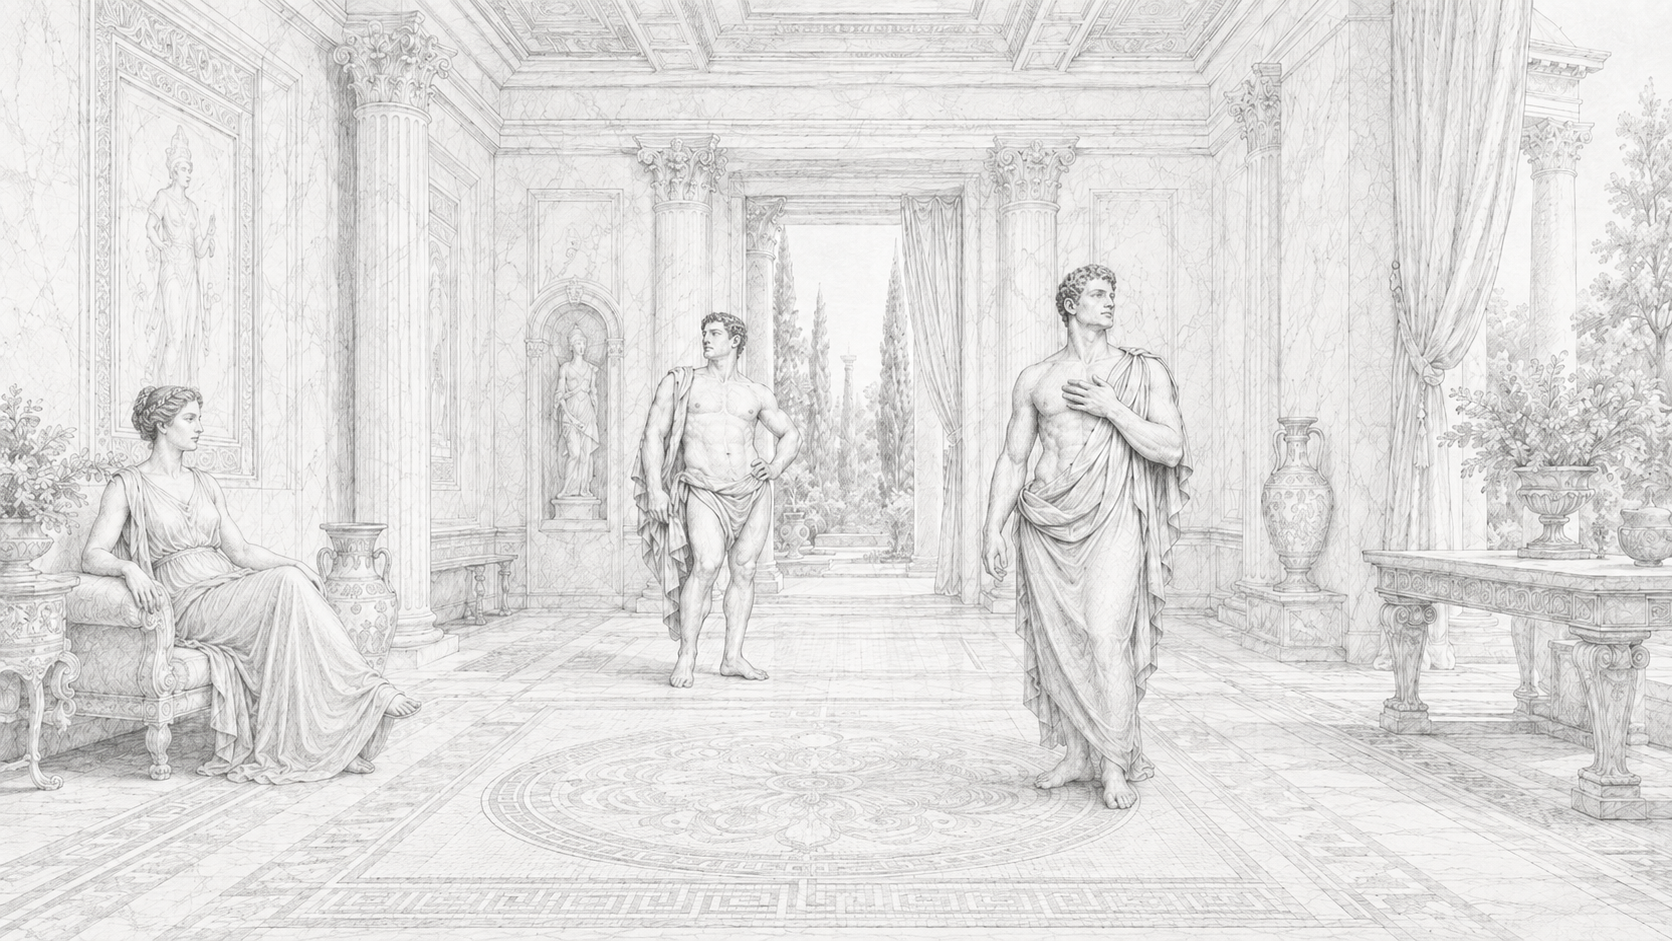
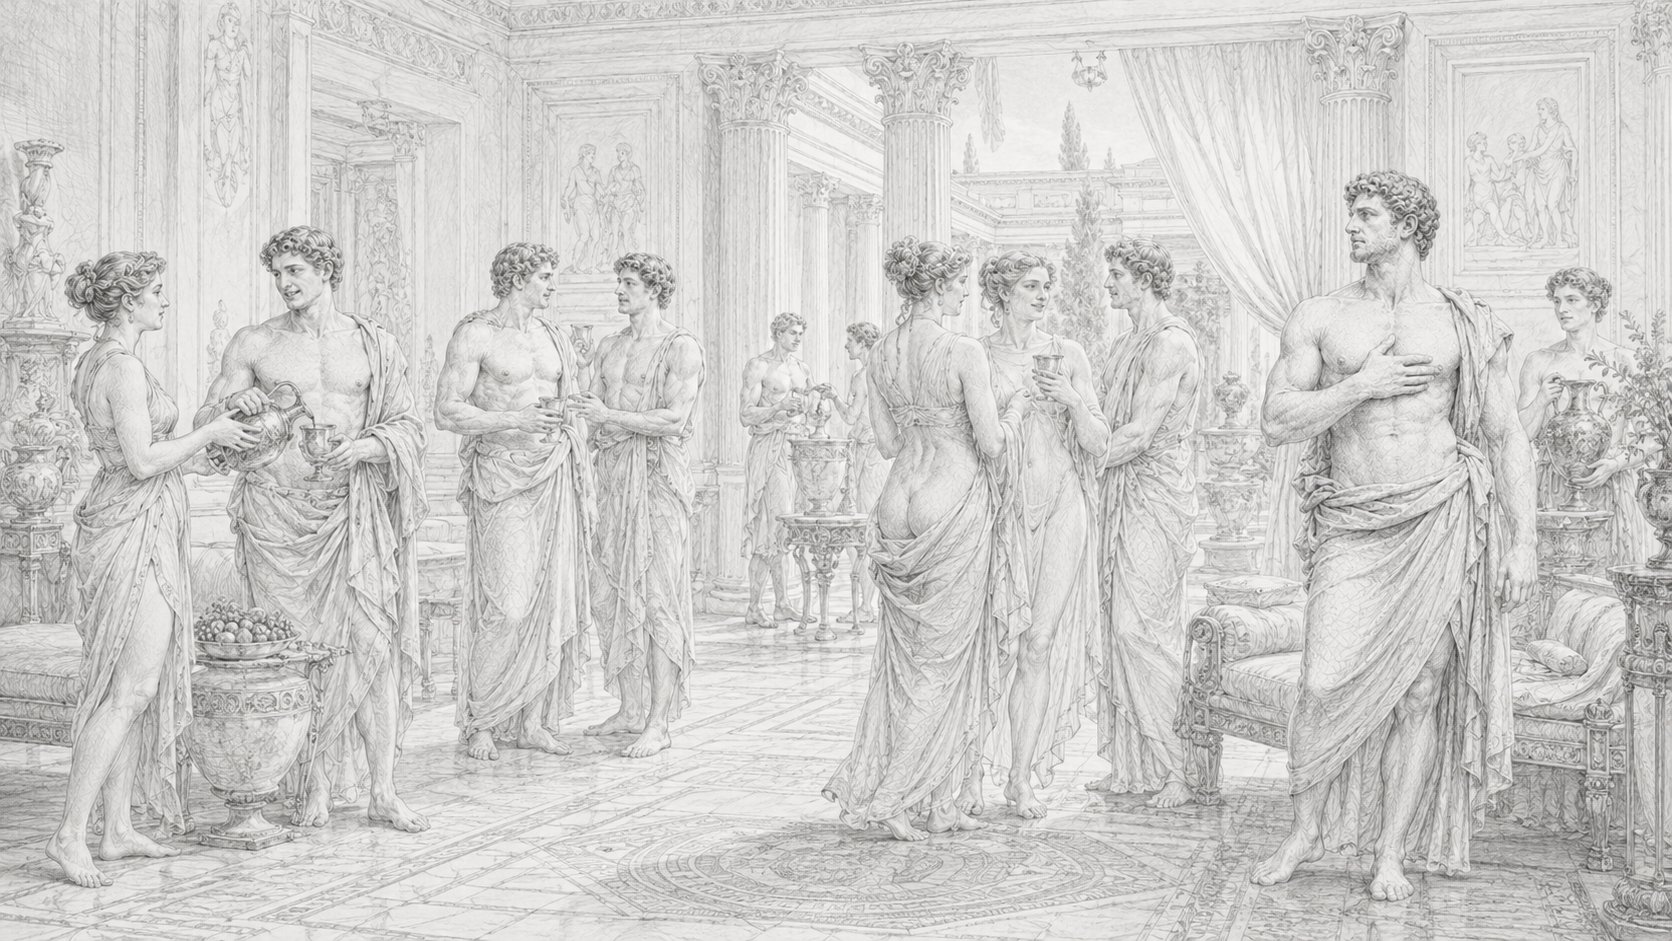
Heroes: stronger home scene, new PECTUS + STONE hero scenes; add /pectus-scenes mock
- Home hero: temple scene opacity 0.22 -> 0.44 with a lighter veil so the
  temple reads clearly behind the VIS·MAJOR mark.
- PECTUS hero: swap /scenes/pectus to the new "Pectus Hero" (fuller symposium).
- STONE hero (SharpHero): add the new grooming scene behind the wordmark.
- SceneBackdrop: add a tunable veilStrength prop.
- MOCK /pectus-scenes: clones the PECTUS landing with a DIFFERENT classical
  scene washed (mix-blend-multiply) behind each white section, to scope the
  "scenes throughout" idea. Noindexed; the real /pectus is untouched. Adds
  SceneSection + ScenesComposition; scenes copied into public/scenes/.

diff --git a/components/enhanced/ScenesComposition.tsx b/components/enhanced/ScenesComposition.tsx
@@ -1,0 +1,74 @@
+import { Announcement } from "@/components/nav/Announcement";
+import { Header } from "@/components/nav/Header";
+import { Ticker } from "@/components/sections/Ticker";
+import { IsIsnt } from "@/components/sections/IsIsnt";
+import { Footer } from "@/components/sections/Footer";
+import { StickyBuyBar } from "@/components/ui/StickyBuyBar";
+
+import { ScrollProgress } from "@/components/enhanced/ScrollProgress";
+import { EnhancedHero } from "@/components/enhanced/EnhancedHero";
+import { FirstBatchStrip } from "@/components/enhanced/FirstBatchStrip";
+import { StickyArchitecture } from "@/components/enhanced/StickyArchitecture";
+import { OneJob } from "@/components/enhanced/OneJob";
+import { HorizontalUseBefore } from "@/components/enhanced/HorizontalUseBefore";
+import { StickyBuy } from "@/components/enhanced/StickyBuy";
+import { NotifyBand } from "@/components/enhanced/NotifyBand";
+import { FinalCta } from "@/components/enhanced/FinalCta";
+import { OtherProducts } from "@/components/house/OtherProducts";
+import { ProductQuote } from "@/components/house/ProductQuote";
+import { SceneSection } from "@/components/ui/SceneSection";
+
+import { ProofV2 } from "@/components/v2/ProofV2";
+import { FaqV2 } from "@/components/v2/FaqV2";
+
+/**
+ * MOCK — a clone of the PECTUS landing (EnhancedComposition) with a DIFFERENT
+ * classical scene washed behind each white section, to scope whether the
+ * "scenes throughout" idea works site-wide. Lives at /pectus-scenes so the real
+ * /pectus is untouched. Dark bands (FirstBatch, Ticker, Use-Before, Proof,
+ * FinalCta) and the already-busy Architecture band are left plain.
+ */
+export function ScenesComposition() {
+  const shipMonth = process.env.PREORDER_SHIP_MONTH ?? "September 2026";
+
+  return (
+    <>
+      <ScrollProgress />
+      <Announcement shipMonth={shipMonth} />
+      <Header crumb="PECTUS" />
+      <main>
+        {/* hero already carries /scenes/pectus */}
+        <EnhancedHero shipMonth={shipMonth} />
+        <FirstBatchStrip shipMonth={shipMonth} />
+        <SceneSection scene="/scenes/hall.png">
+          <ProductQuote latin="Mens sana in corpore sano" translation="a sound mind in a sound body." />
+        </SceneSection>
+        <Ticker />
+        <StickyArchitecture />
+        <HorizontalUseBefore />
+        <SceneSection scene="/scenes/sculpt.png">
+          <OneJob />
+        </SceneSection>
+        <ProofV2 />
+        <SceneSection scene="/scenes/home.png">
+          <StickyBuy shipMonth={shipMonth} />
+        </SceneSection>
+        <SceneSection scene="/scenes/stone.png">
+          <IsIsnt />
+        </SceneSection>
+        <SceneSection scene="/scenes/pectus.png">
+          <FaqV2 shipMonth={shipMonth} />
+        </SceneSection>
+        <FinalCta shipMonth={shipMonth} />
+        <SceneSection scene="/scenes/extra.png">
+          <NotifyBand />
+        </SceneSection>
+        <SceneSection scene="/scenes/hall.png">
+          <OtherProducts current="pectus" />
+        </SceneSection>
+      </main>
+      <Footer />
+      <StickyBuyBar priceFrom="£24" label="PECTUS · 20ml" />
+    </>
+  );
+}

diff --git a/components/ui/SceneSection.tsx b/components/ui/SceneSection.tsx
@@ -1,0 +1,40 @@
+import { ReactNode } from "react";
+import Image from "next/image";
+
+/**
+ * MOCK ONLY (used on /pectus-scenes) — washes a faint classical scene across a
+ * whole section as a `mix-blend-multiply` overlay, so the "a different scene
+ * behind every white area" idea can be scoped without editing the shared
+ * section components. Multiply leaves black text/dark bands unchanged and only
+ * tints the white space; the layer is pointer-events-none so it never blocks
+ * interaction. If Silviu likes it, we'd re-do it properly as per-section
+ * background art (transparent section roots + a z-0 backdrop).
+ */
+export function SceneSection({
+  scene,
+  opacity = 0.1,
+  children,
+}: {
+  scene: string;
+  opacity?: number;
+  children: ReactNode;
+}) {
+  return (
+    <div className="relative">
+      {children}
+      <div
+        aria-hidden
+        className="pointer-events-none absolute inset-0 z-30 overflow-hidden mix-blend-multiply"
+        style={{ opacity }}
+      >
+        <Image
+          src={scene}
+          alt=""
+          fill
+          sizes="100vw"
+          className="object-cover object-center"
+        />
+      </div>
+    </div>
+  );
+}

diff --git a/app/pectus-scenes/page.tsx b/app/pectus-scenes/page.tsx
@@ -1,0 +1,12 @@
+import type { Metadata } from "next";
+import { ScenesComposition } from "@/components/enhanced/ScenesComposition";
+
+export const metadata: Metadata = {
+  title: "PECTUS — Scenes mockup · VIS MAJOR",
+  description: "Internal mockup: the PECTUS landing with a different classical scene behind each section.",
+  robots: { index: false, follow: false },
+};
+
+export default function PectusScenesPage() {
+  return <ScenesComposition />;
+}

diff --git a/components/ui/SceneBackdrop.tsx b/components/ui/SceneBackdrop.tsx
@@ -11,6 +11,7 @@ export function SceneBackdrop({
   opacity = 0.2,
   position = "object-center",
   veil = true,
+  veilStrength = 0.7,
   className = "",
 }: {
   src: string;
@@ -19,6 +20,8 @@ export function SceneBackdrop({
   position?: string;
   /** soft white centre veil so the wordmark stays legible over busy scenes. */
   veil?: boolean;
+  /** 0–1 opacity of the centre veil; lower = the scene reads more strongly. */
+  veilStrength?: number;
   className?: string;
 }) {
   return (
@@ -39,8 +42,7 @@ export function SceneBackdrop({
         <div
           className="absolute inset-0"
           style={{
-            background:
-              "radial-gradient(ellipse 62% 52% at 50% 46%, rgba(255,255,255,0.7) 0%, rgba(255,255,255,0) 68%)",
+            background: `radial-gradient(ellipse 62% 52% at 50% 46%, rgba(255,255,255,${veilStrength}) 0%, rgba(255,255,255,0) 68%)`,
           }}
         />
       )}

diff --git a/components/sharp/SharpHero.tsx b/components/sharp/SharpHero.tsx
@@ -11,6 +11,7 @@ import {
   type Variants,
 } from "framer-motion";
 import { Container } from "@/components/ui/Container";
+import { SceneBackdrop } from "@/components/ui/SceneBackdrop";
 import { SharpBottle } from "@/components/sharp/Specimen";
 
 const EASE = [0.16, 1, 0.3, 1] as const;
@@ -122,7 +123,8 @@ export function SharpHero({ shipMonth }: { shipMonth: string }) {
       onMouseLeave={onLeave}
       className="relative flex min-h-[calc(100svh-104px)] flex-col items-center overflow-hidden py-4 md:py-6"
     >
-      <Container className="relative flex w-full flex-1 flex-col items-center justify-center">
+      <SceneBackdrop src="/scenes/stone.png" opacity={0.22} />
+      <Container className="relative z-10 flex w-full flex-1 flex-col items-center justify-center">
         {/* eyebrow */}
         <motion.div
           {...fadeUp}

diff --git a/components/house/HouseHero.tsx b/components/house/HouseHero.tsx
@@ -60,7 +60,7 @@ export function HouseHero() {
           Centering lives on the wrapper; parallax on the inner element, so
           Framer's transform doesn't clobber the -translate centering. */}
       {/* the house — the classical temple scene behind the mark */}
-      <SceneBackdrop src="/scenes/home.png" opacity={0.22} position="object-center" />
+      <SceneBackdrop src="/scenes/home.png" opacity={0.44} veilStrength={0.4} position="object-center" />
 
       <Container className="relative z-10 flex flex-col items-center text-center">
         {/* eyebrow */}